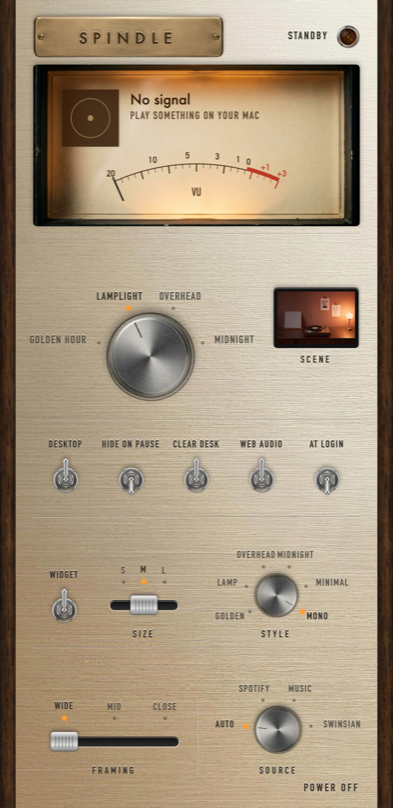
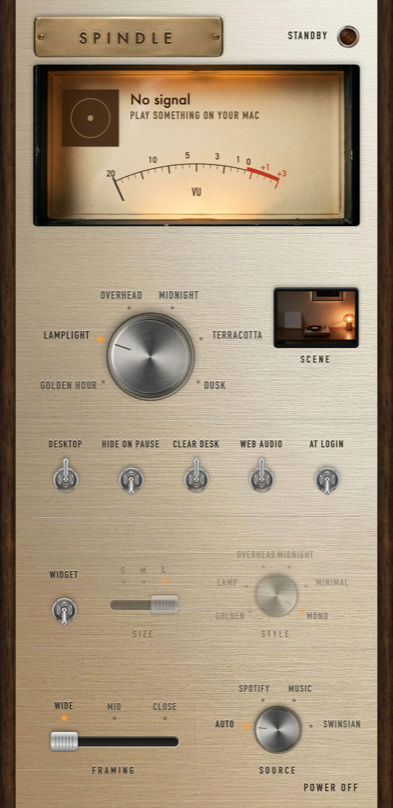
Spindle 1.2: reliable album art, white-wall scenes back, Terracotta and Dusk
- The last record stays on until the new track's art arrives, then slides over
- Failed art lookups retry; iTunes search ignores edition notes like (Remastered)
- The panel shows a link to the Automation setting when a player is blocked
- Golden Hour and Lamplight back to the white wall; the terracotta room is now
  two extra scenes, Terracotta and Dusk
- SPINDLE_TRACE=1 prints how each track's artwork is found

diff --git a/Sources/Vinyl/NowPlaying/ArtworkResolver.swift b/Sources/Vinyl/NowPlaying/ArtworkResolver.swift
@@ -10,24 +10,26 @@ final class ArtworkResolver {
 
     func store(_ image: NSImage, for key: String) { cache.setObject(image, forKey: key as NSString) }
 
-    func resolve(_ snapshot: PlaybackSnapshot, key: String, completion: @escaping (NSImage) -> Void) {
+    /// Calls back with the art, or nil when every source came up empty.
+    func resolve(_ snapshot: PlaybackSnapshot, key: String, completion: @escaping (NSImage?) -> Void) {
         if let hit = cached(key) { completion(hit); return }
-        guard !inFlight.contains(key) else { return }
+        guard !inFlight.contains(key) else { Trace.log("art: already looking for \(snapshot.title)"); return }
+        Trace.log("art: looking for \(snapshot.title) (bytes \(snapshot.artworkData != nil), url \(snapshot.artworkURL != nil), from \(snapshot.bundleID ?? "?"))")
         inFlight.insert(key)
 
         let finish: (NSImage?) -> Void = { [weak self] image in
             guard let self else { return }
             if let image {
+                Trace.log("art: found for \(snapshot.title)")
                 self.inFlight.remove(key)
                 self.store(image, for: key)
                 completion(image)
             } else {
                 self.searchITunes(snapshot) { found in
+                    Trace.log("art: iTunes search for \(snapshot.title) \(found == nil ? "found nothing" : "found art")")
                     self.inFlight.remove(key)
-                    if let found {
-                        self.store(found, for: key)
-                        completion(found)
-                    }
+                    if let found { self.store(found, for: key) }
+                    completion(found)
                 }
             }
         }
@@ -60,28 +62,44 @@ final class ArtworkResolver {
         }.resume()
     }
 
+    /// Searches the iTunes catalog: the album first, then the song, with edition
+    /// notes such as "(Remastered 2009)" or "- Single" taken off, which the
+    /// catalog rarely matches.
     private func searchITunes(_ s: PlaybackSnapshot, completion: @escaping (NSImage?) -> Void) {
-        let term = [s.artist, s.album.isEmpty ? s.title : s.album].filter { !$0.isEmpty }.joined(separator: " ")
-        guard !term.isEmpty, var comps = URLComponents(string: "https://itunes.apple.com/search") else {
+        let artist = Self.plain(s.artist), album = Self.plain(s.album), title = Self.plain(s.title)
+        var queries: [(String, String)] = []
+        if !album.isEmpty { queries.append(("album", [artist, album].filter { !$0.isEmpty }.joined(separator: " "))) }
+        if !title.isEmpty { queries.append(("song", [artist, title].filter { !$0.isEmpty }.joined(separator: " "))) }
+        search(queries[...], completion: completion)
+    }
+
+    private func search(_ queries: ArraySlice<(String, String)>, completion: @escaping (NSImage?) -> Void) {
+        guard let (entity, term) = queries.first, var comps = URLComponents(string: "https://itunes.apple.com/search") else {
             completion(nil); return
         }
-        comps.queryItems = [
-            .init(name: "term", value: term),
-            .init(name: "entity", value: s.album.isEmpty ? "song" : "album"),
-            .init(name: "limit", value: "1"),
-        ]
+        comps.queryItems = [.init(name: "term", value: term), .init(name: "entity", value: entity), .init(name: "limit", value: "1")]
         guard let url = comps.url else { completion(nil); return }
         URLSession.shared.dataTask(with: url) { [weak self] data, _, _ in
+            guard let self else { return }
             guard let data,
                   let json = try? JSONSerialization.jsonObject(with: data) as? [String: Any],
                   let first = (json["results"] as? [[String: Any]])?.first,
                   let small = first["artworkUrl100"] as? String,
                   let big = URL(string: small.replacingOccurrences(of: "100x100bb", with: "1200x1200bb"))
             else {
-                DispatchQueue.main.async { completion(nil) }
+                DispatchQueue.main.async { self.search(queries.dropFirst(), completion: completion) }
                 return
             }
-            self?.download(big, completion: completion)
+            self.download(big, completion: completion)
         }.resume()
+    }
+
+    /// A title without edition notes: brackets mentioning a remaster, deluxe
+    /// edition, featured artist and so on, and trailing "- Remastered 2011" parts.
+    static func plain(_ s: String) -> String {
+        let notes = "remaster|deluxe|edition|anniversary|expanded|version|bonus|mono|stereo|live|feat\\.|ft\\.|with |single|official|video|audio|lyric"
+        var t = s.replacingOccurrences(of: "\\s*[(\\[][^)\\]]*(\(notes))[^)\\]]*[)\\]]", with: "", options: [.regularExpression, .caseInsensitive])
+        t = t.replacingOccurrences(of: "\\s+-\\s+[^-]*(\(notes)).*$", with: "", options: [.regularExpression, .caseInsensitive])
+        return t.trimmingCharacters(in: .whitespaces)
     }
 }

diff --git a/Sources/Vinyl/UI/PanelView.swift b/Sources/Vinyl/UI/PanelView.swift
@@ -253,11 +253,27 @@ private struct Meter: View {
                             .font(Lettering.name(14))
                             .foregroundStyle(Faceplate.meterInk)
                             .lineLimit(2)
-                        Text((nowPlaying.track?.artist ?? "Play something on your Mac").uppercased())
-                            .font(Lettering.label(11))
-                            .kerning(1)
-                            .foregroundStyle(Faceplate.meterInk.opacity(0.72))
-                            .lineLimit(2)
+                        if let blocked = nowPlaying.blockedPlayer {
+                            // Without Automation permission there's no album art from this player.
+                            Button {
+                                NSWorkspace.shared.open(URL(string: "x-apple.systempreferences:com.apple.preference.security?Privacy_Automation")!)
+                            } label: {
+                                Text("Allow Spindle to read \(blocked.name) ›".uppercased())
+                                    .font(Lettering.label(11))
+                                    .kerning(1)
+                                    .foregroundStyle(Color(red: 0.62, green: 0.14, blue: 0.06))
+                                    .lineLimit(2)
+                            }
+                            .buttonStyle(.plain)
+                            .pointingCursor()
+                            .help("Open Privacy & Security > Automation and turn on \(blocked.name) under Spindle")
+                        } else {
+                            Text((nowPlaying.track?.artist ?? "Play something on your Mac").uppercased())
+                                .font(Lettering.label(11))
+                                .kerning(1)
+                                .foregroundStyle(Faceplate.meterInk.opacity(0.72))
+                                .lineLimit(2)
+                        }
                     }
                     Spacer(minLength: 0)
                 }
@@ -554,7 +570,7 @@ private struct SceneSelector: View {
     var body: some View {
         HStack(alignment: .center, spacing: 6) {
             RotaryKnob(title: "Scene", options: SceneKind.allCases.map { ($0, $0.title) }, selection: $selection,
-                       knobSize: 92, spread: 150, labelSize: 10.5, extraWidth: 12)
+                       knobSize: 92, spread: 236, labelSize: 10.5, extraWidth: 12)
             VStack(spacing: 8) {
                 Image(nsImage: SceneThumbnails.image(for: selection))
                     .resizable()
@@ -644,8 +660,8 @@ enum SceneThumbnails {
                 let R = DeckGeometry.recordRadius
                 let c = CGPoint(x: deck.minX + DeckGeometry.center.x, y: deck.minY + DeckGeometry.center.y)
                 Draw.upright(Textures.record(scale: scale), in: CGRect(x: c.x - R, y: c.y - R, width: R * 2, height: R * 2), ctx)
-            case .listeningRoom, .afterHours:
-                Draw.upright(Textures.room(kind == .afterHours ? .night : .day, size: worldSize, scale: scale), in: CGRect(origin: .zero, size: worldSize), ctx)
+            case .listeningRoom, .afterHours, .terracotta, .dusk:
+                Draw.upright(Textures.room(kind == .afterHours || kind == .dusk ? .night : .day, size: worldSize, scale: scale), in: CGRect(origin: .zero, size: worldSize), ctx)
             }
         }
         return NSImage(cgImage: cg, size: NSSize(width: cg.width, height: cg.height))

diff --git a/Sources/Vinyl/NowPlaying/NowPlayingCenter.swift b/Sources/Vinyl/NowPlaying/NowPlayingCenter.swift
@@ -20,6 +20,8 @@ final class NowPlayingCenter: ObservableObject {
     @Published private(set) var artwork: NSImage?
     @Published private(set) var isPlaying = false
     @Published private(set) var playerBundleID: String?
+    /// A player macOS won't let Spindle read (Automation permission missing).
+    @Published private(set) var blockedPlayer: KnownPlayer?
 
     private var elapsed: Double?
     private var elapsedAt = Date()
@@ -40,6 +42,11 @@ final class NowPlayingCenter: ObservableObject {
     // MARK: Lifecycle
 
     func start() {
+        ScriptRunner.shared.onPermission = { [weak self] player, allowed in
+            guard let self else { return }
+            if !allowed, self.blockedPlayer != player { self.blockedPlayer = player }
+            if allowed, self.blockedPlayer == player { self.blockedPlayer = nil }
+        }
         monitor.onSnapshot = { [weak self] snapshot in self?.systemUpdate(snapshot) }
         monitor.start()
 
@@ -172,6 +179,7 @@ final class NowPlayingCenter: ObservableObject {
         if incoming.key != track?.key {
             track = incoming
             artwork = resolver.cached(incoming.artworkKey)
+            Trace.log("track: \(incoming.title) / \(incoming.album) from \(s.bundleID ?? "?"), cached art \(artwork != nil)")
             requestArtwork(for: s, track: incoming)
         } else {
             if incoming.duration != nil, incoming.duration != track?.duration { track = incoming }
@@ -190,10 +198,24 @@ final class NowPlayingCenter: ObservableObject {
         if isPlaying != s.isPlaying { isPlaying = s.isPlaying }
     }
 
-    private func requestArtwork(for s: PlaybackSnapshot, track: Track) {
+    /// Looks up the art, trying again a little later if nothing turned up
+    /// (players often have no art yet in the first moment of a new track).
+    private func requestArtwork(for s: PlaybackSnapshot, track: Track, attempt: Int = 0) {
         resolver.resolve(s, key: track.artworkKey) { [weak self] image in
-            guard let self, self.track?.artworkKey == track.artworkKey else { return }
-            self.artwork = image
+            guard let self, self.track?.artworkKey == track.artworkKey else {
+                Trace.log("art: dropped art for \(track.title), now on \(self?.track?.title ?? "nothing")")
+                return
+            }
+            if let image {
+                self.artwork = image
+            } else if attempt < 3 {
+                let wait: Double = [1.5, 4, 10][attempt]
+                Trace.log("art: none for \(track.title) yet, trying again in \(wait)s")
+                DispatchQueue.main.asyncAfter(deadline: .now() + wait) { [weak self] in
+                    guard let self, self.artwork == nil, self.track?.artworkKey == track.artworkKey else { return }
+                    self.requestArtwork(for: s, track: track, attempt: attempt + 1)
+                }
+            }
         }
     }
 

diff --git a/Sources/Vinyl/App/DesktopController.swift b/Sources/Vinyl/App/DesktopController.swift
@@ -35,6 +35,7 @@ final class DesktopController {
     private var lastTrackKey: String?
     /// The track whose art is on the record now, so a new one plays the flip.
     private var shownArtKey: String?
+    private var pendingClear: DispatchWorkItem?
     private var visible = true
 
     /// Every scene on screen: one per display, plus the card.
@@ -81,10 +82,24 @@ final class DesktopController {
                 // Fade only when the record actually changes, not on the first draw.
                 let animated = self.lastTrackKey != nil
                 self.lastTrackKey = key
+                self.pendingClear?.cancel()
+                self.pendingClear = nil
+                // A new track whose art is still on its way keeps the last record
+                // on for a moment, so the sleeve doesn't flash blank between songs.
+                if image == nil, key != nil, self.shownArtKey != nil {
+                    let clear = DispatchWorkItem { [weak self] in
+                        Trace.log("scene: no art arrived, clearing")
+                        self?.sceneViews.forEach { $0.setArtwork(nil, animated: true) }
+                    }
+                    self.pendingClear = clear
+                    DispatchQueue.main.asyncAfter(deadline: .now() + 6, execute: clear)
+                    return
+                }
                 // A new track's art arriving swaps the record over.
                 let flip = image != nil && self.shownArtKey != nil && key != self.shownArtKey
                 if image != nil { self.shownArtKey = key }
                 let cg = image?.cg
+                Trace.log("scene: art \(cg == nil ? "cleared" : "set") for \(self.nowPlaying.track?.title ?? "nothing"), flip \(flip)")
                 self.sceneViews.forEach { $0.setArtwork(cg, animated: animated, flip: flip) }
             }
             .store(in: &cancellables)

diff --git a/Sources/Vinyl/NowPlaying/Players.swift b/Sources/Vinyl/NowPlaying/Players.swift
@@ -1,6 +1,17 @@
 import AppKit
 
 /// One reading of "what is playing right now", from any source.
+/// `SPINDLE_TRACE=1` prints how each track's artwork is found, for debugging.
+enum Trace {
+    static let on = ProcessInfo.processInfo.environment["SPINDLE_TRACE"] != nil
+    private static let clock: DateFormatter = { let f = DateFormatter(); f.dateFormat = "HH:mm:ss.SSS"; return f }()
+    static func log(_ message: @autoclosure () -> String) {
+        guard on else { return }
+        print("\(clock.string(from: Date())) \(message())")
+        fflush(stdout)
+    }
+}
+
 struct PlaybackSnapshot {
     var bundleID: String?
     var title: String
@@ -103,6 +114,8 @@ final class ScriptRunner {
 
     private let queue = DispatchQueue(label: "vinyl.applescript", qos: .userInitiated)
     private var compiled: [String: NSAppleScript] = [:]
+    /// Reports, after each script, whether macOS let Spindle talk to that player.
+    var onPermission: ((KnownPlayer, Bool) -> Void)?
 
     func run(_ source: String, completion: @escaping (NSAppleEventDescriptor?) -> Void) {
         queue.async {
@@ -118,6 +131,12 @@ final class ScriptRunner {
             }
             var error: NSDictionary?
             let result = script.executeAndReturnError(&error)
+            if let error { Trace.log("applescript error \(error[NSAppleScript.errorNumber] ?? "?"): \(source.prefix(70))") }
+            // -1743: the user hasn't allowed Spindle to control this app (Privacy & Security > Automation).
+            let denied = (error?[NSAppleScript.errorNumber] as? Int) == -1743
+            if let player = KnownPlayer.allCases.first(where: { source.contains("\"\($0.bundleID)\"") }) {
+                DispatchQueue.main.async { self.onPermission?(player, !denied) }
+            }
             DispatchQueue.main.async { completion(error == nil ? result : nil) }
         }
     }

diff --git a/Sources/Vinyl/Scene/PhotoScene.swift b/Sources/Vinyl/Scene/PhotoScene.swift
@@ -9,6 +9,8 @@ extension SceneKind {
         switch self {
         case .turntable: return "turntable"
         case .overheadNight: return "overhead-night"
+        case .terracotta: return "terracotta"
+        case .dusk: return "dusk"
         case .listeningRoom: return "listening-room"
         case .afterHours: return "after-hours"
         }
@@ -172,7 +174,11 @@ final class PhotoScene: VinylScene {
     /// The old record slides out of the jacket's frame as the new one slides in,
     /// and the label changes over.
     func changeRecord(to art: CGImage?) {
-        guard let art, let current = sleeveArt.contents else { setArtwork(art, animated: true); return }
+        guard let art, let current = sleeveArt.contents else {
+            Trace.log("scene: no record on the sleeve yet, fading the art in")
+            setArtwork(art, animated: true)
+            return
+        }
         let side = sleeveArt.bounds.width
         let incoming = resample(art, side: sleeveSide)
         func card(_ contents: Any, at x: CGFloat) -> CALayer {
@@ -192,6 +198,7 @@ final class PhotoScene: VinylScene {
 
         CATransaction.begin()
         CATransaction.setCompletionBlock { [weak self] in
+            Trace.log("scene: sleeve slide finished")
             CATransaction.begin()
             CATransaction.setDisableActions(true)
             self?.sleeveArt.contents = incoming

diff --git a/Sources/Vinyl/Scene/SceneView.swift b/Sources/Vinyl/Scene/SceneView.swift
@@ -116,8 +116,8 @@ final class SceneView: NSView {
             } else {
                 switch kind {
                 case .turntable, .overheadNight: next = TopDownScene(scale: objectScale, backgroundScale: backgroundScale)
-                case .listeningRoom: next = FrontScene(night: false, scale: objectScale, backgroundScale: backgroundScale)
-                case .afterHours: next = FrontScene(night: true, scale: objectScale, backgroundScale: backgroundScale)
+                case .listeningRoom, .terracotta: next = FrontScene(night: false, scale: objectScale, backgroundScale: backgroundScale)
+                case .afterHours, .dusk: next = FrontScene(night: true, scale: objectScale, backgroundScale: backgroundScale)
                 }
             }
         case .card(.mono, _):

diff --git a/Sources/Vinyl/App/AppSettings.swift b/Sources/Vinyl/App/AppSettings.swift
@@ -3,7 +3,7 @@ import Combine
 import ServiceManagement
 
 enum SceneKind: String, CaseIterable, Identifiable {
-    case listeningRoom, afterHours, turntable, overheadNight
+    case listeningRoom, afterHours, turntable, overheadNight, terracotta, dusk
 
     var id: String { rawValue }
 
@@ -13,6 +13,8 @@ enum SceneKind: String, CaseIterable, Identifiable {
         case .afterHours: return "Lamplight"
         case .turntable: return "Overhead"
         case .overheadNight: return "Midnight"
+        case .terracotta: return "Terracotta"
+        case .dusk: return "Dusk"
         }
     }
 }

diff --git a/README.md b/README.md
@@ -13,11 +13,13 @@ Requires macOS 14 or later.
 | ![Golden Hour](docs/listeningRoom.jpg) | ![Lamplight](docs/afterHours.jpg) |
 | Overhead | Midnight |
 | ![Overhead](docs/turntable.jpg) | ![Midnight](docs/overheadNight.jpg) |
+| Terracotta | Dusk |
+| ![Terracotta](docs/terracotta.jpg) | ![Dusk](docs/dusk.jpg) |
 
 ## What it does
 
-Spindle has four scenes: Golden Hour, Lamplight, Overhead and Midnight. They are photoreal
-images, and the album art is relit to match the light in each room. When the track changes,
+Spindle has six scenes: Golden Hour, Lamplight, Overhead, Midnight, Terracotta and Dusk. They
+are photoreal images, and the album art is relit to match the light in each room. When the track changes,
 the old record slides out of the sleeve and the new one slides in.
 
 It reads Spotify, Apple Music and Swinsian directly. Other players, including browsers, come
@@ -71,6 +73,11 @@ If you're comfortable with Terminal, this one command does the same as steps 2 a
 xattr -dr com.apple.quarantine /Applications/Spindle.app
 ```
 
+The first time Spindle reads Spotify, Music or Swinsian, macOS asks whether Spindle may control
+it. Click **Allow**: that's how Spindle gets the exact album art. If you clicked Don't Allow,
+the panel shows a red "Allow Spindle to read…" link that opens the right setting (System
+Settings > Privacy & Security > Automation).
+
 macOS asks for permission the first time Spindle talks to Spotify, Music or Swinsian, and the
 first time the VU meter listens to system audio. The meter only measures loudness and records
 nothing.
@@ -87,9 +94,10 @@ You need the Xcode command line tools with a Swift 6 toolchain.
 
 ## Your own scenes
 
-The four scenes ship inside the app. To replace one, put your own `<name>.png` (or `.jpg`) and
+The six scenes ship inside the app. To replace one, put your own `<name>.png` (or `.jpg`) and
 `<name>.json` in `~/Library/Application Support/Spindle/Scenes/`. Files there win over the
-bundled ones. The names are `listening-room`, `after-hours`, `turntable` and `overhead-night`.
+bundled ones. The names are `listening-room`, `after-hours`, `turntable`, `overhead-night`,
+`terracotta` and `dusk`.
 
 A scene is one photo with a blank white sleeve and a record with a blank white label. The JSON
 gives their positions in image pixels, so the art can be laid on with the photo's own
@@ -114,10 +122,11 @@ width, height) and `corner` (its corner radius).
 
 ## Development
 
-`Spindle --snapshot <turntable|listeningRoom|afterHours|overheadNight> out.png [wide|mid|close]`
+`Spindle --snapshot <listeningRoom|afterHours|turntable|overheadNight|terracotta|dusk> out.png [wide|mid|close]`
 renders a scene offscreen with sample artwork, so you can check visuals without the desktop.
 `Spindle --card <style> <small|medium|large> out.png` renders a widget, and
-`Spindle --panel out.png` renders the settings panel.
+`Spindle --panel out.png` renders the settings panel. Launching with `SPINDLE_TRACE=1` prints how
+each track's artwork is found.
 
 | Path | What's in it |
 | --- | --- |
@@ -127,6 +136,6 @@ renders a scene offscreen with sample artwork, so you can check visuals without 
 | `Sources/Vinyl/Rendering/` | Procedural textures and the app icon |
 | `Sources/Vinyl/App/` | App lifecycle, desktop window, menu bar, settings |
 | `Sources/Vinyl/UI/` | The SwiftUI settings panel and VU meter |
-| `Resources/Scenes/` | The four scene photos and their calibration |
+| `Resources/Scenes/` | The six scene photos and their calibration |
 | `Resources/Widgets/` | The widget photos and their calibration |
 | `Resources/Panel/` | Cut-out parts for the settings panel |
